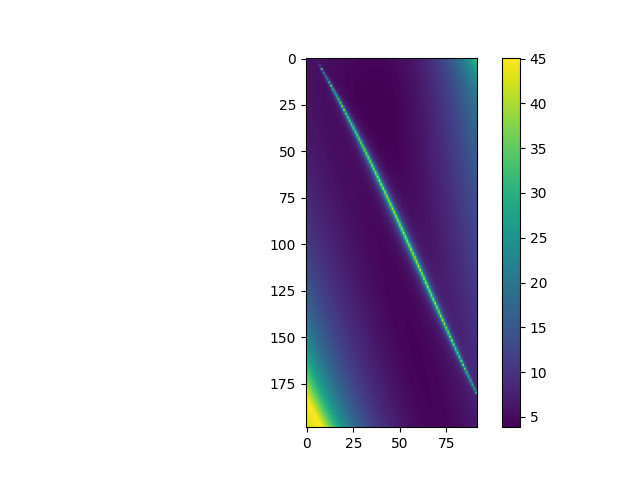
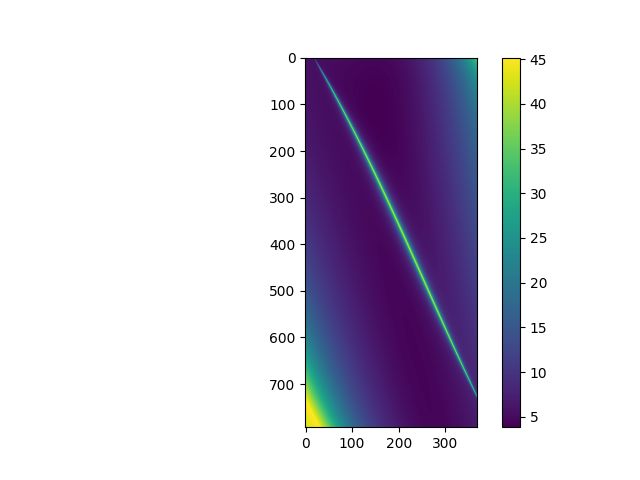
ephemeris_plot.py now generates accurate porkchop plots :)

diff --git a/Gravitas_Py_3.0/Porkchop_3.0/ephemeris_plot.py b/Gravitas_Py_3.0/Porkchop_3.0/ephemeris_plot.py
@@ -90,7 +90,7 @@ et_ar0 = spice.str2et(arrival_time0)
 et_ar1 = spice.str2et(arrival_time1)
 
 # Time step (1 hour increments)
-step = 3600*12*4  # seconds
+step = 3600*12  # seconds
 ets_de = np.arange(et_de0, et_de1, step)
 ets_ar = np.arange(et_ar0, et_ar1, step)
 
@@ -110,6 +110,7 @@ trajectory_arrival = np.array([spice.spkezr(target, et, frame, abcorr, observer)
 porkchop_array = np.zeros((len(trajectory_arrival),len(trajectory_departure)))
 vinfinity_array = np.zeros((len(trajectory_arrival),len(trajectory_departure)))
 v_array = np.zeros((len(trajectory_arrival),len(trajectory_departure)))
+time_of_flight = np.zeros((len(trajectory_arrival),len(trajectory_departure)))
 
 
 for i in range(len(trajectory_arrival)):
@@ -136,23 +137,29 @@ for i in range(len(trajectory_arrival)):
         porkchop_array[i][j] = c3
         vinfinity_array[i][j] = v_inf_ar
         v_array[i][j] = np.linalg.norm(v0.value - vp)
+        time_of_flight[i][j] = (ets_ar[i] - ets_de[j])/(3600*24)
 
 
-fig, ax = plt.subplots(figsize=(12,8))
+fig, ax = plt.subplots(figsize=(10,12))
 
-CS = ax.contour(porkchop_array, np.arange(20,200,20), label='c3')
+CS = ax.contour(porkchop_array, levels=np.linspace(20,200,20), colors=[(1.0,0.0,0.0)])
 ax.clabel(CS, inline=1, fontsize=10)
+CS.set_label('c3')
 
-#CS1 = ax.contour(np.arange(len(trajectory_departure)),np.arange(len(trajectory_arrival)), vinfinity_array, label='v-inf')
-#ax.clabel(CS1, inline=1, fontsize=10)
+CS1 = ax.contour(vinfinity_array, levels=np.linspace(2,9,12), colors=[(0.0,0.0,1.0)])
+ax.clabel(CS1, inline=1, fontsize=10)
+CS1.set_label('v-inf')
 
-ax.set_title('Mars 2020 Transfer')
-ax.set_xlabel('Departure Window (Days after UST:2020-12-01T00:00:00)')
-ax.set_ylabel('Arrival Window (Days after UST:2022-01-01T00:00:00)')
+CS2 = ax.contour(time_of_flight, colors=[(0.0,1.0,0.0)])
+ax.clabel(CS2, inline=1, fontsize=10)
+CS2.set_label('time of flight')
 
-#ax.set_facecolor((0.0,0.0,0.0))
+plt.title('Mars 2020 Transfer')
+plt.xlabel('Departure Window (Days after UST:2020-12-01T00:00:00)')
+plt.ylabel('Arrival Window (Days after UST:2022-01-01T00:00:00)')
 
-fig.savefig(f'{dir}/video_output/pork_out.png')
+
+plt.savefig(f'{dir}/video_output/pork_out.png')
 
 plt.close()
 
